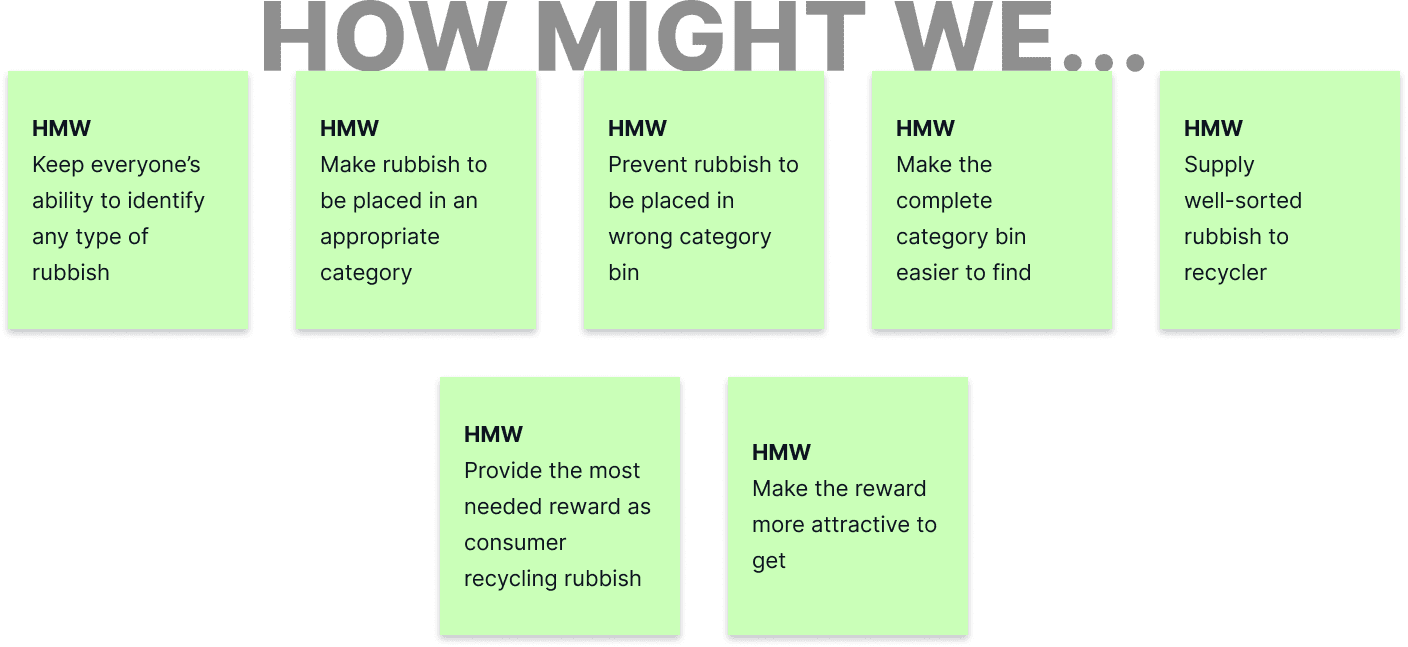
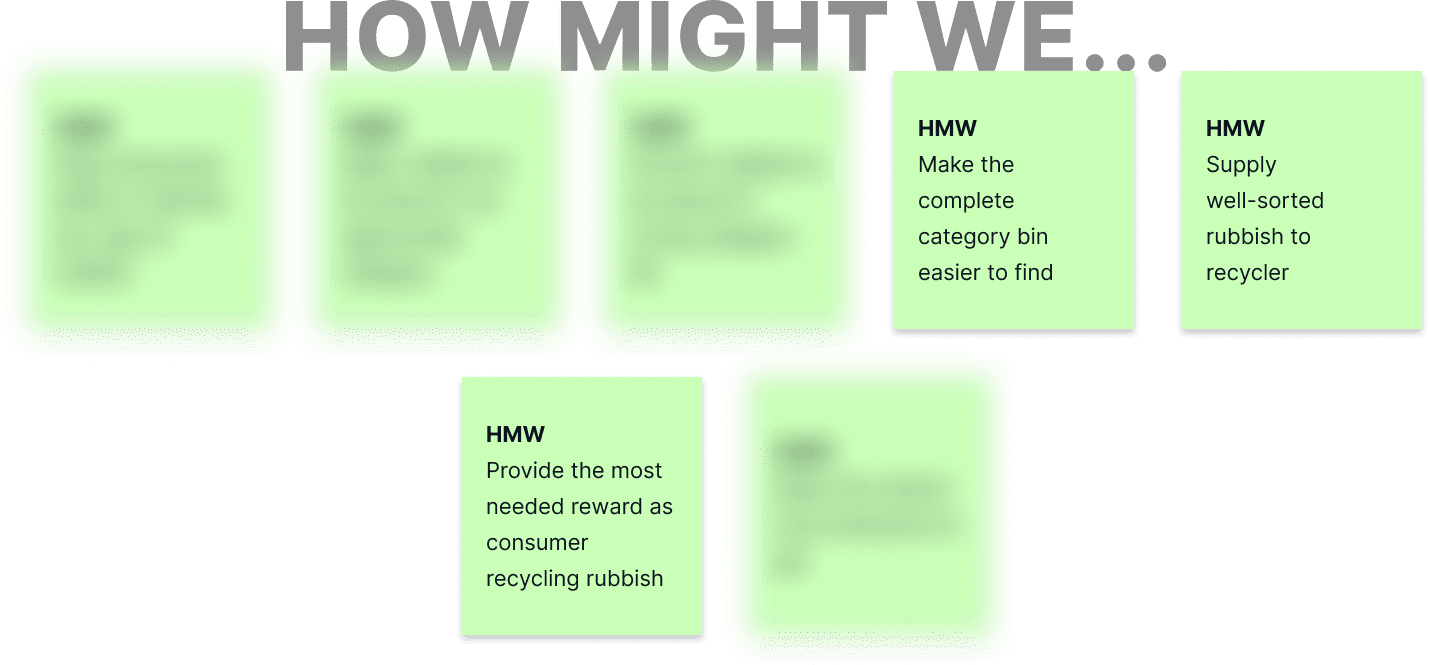
Adding note for blurry images

Changed region(s): [[0.0, 0.0, 1.0, 0.5255], [0.3125, 0.5564, 0.7188, 0.9892]]

diff --git a/projects/waste-and-recycling-management.html b/projects/waste-and-recycling-management.html
@@ -159,6 +159,8 @@
                 <p class="sub-title">Reframe the insight as standardized challenges using How Might We (HMW) approach
                 </p>
                 <p class="paragraph-desc">From the insights that we have found, I tried to let us open for any possibility to innovate using How Might We (HMW) approach.</p>
+                <p class="paragraph-desc"><i><b>Note:</b> If you see some blurry image below, it’s not your browser or your eyes. It’s me hiding some future strategy.</i>
+                </p>
             </div>
             <img src="../../images/tba-04-hmw.png" alt="Image: how might we" class="img-artefact">
 
